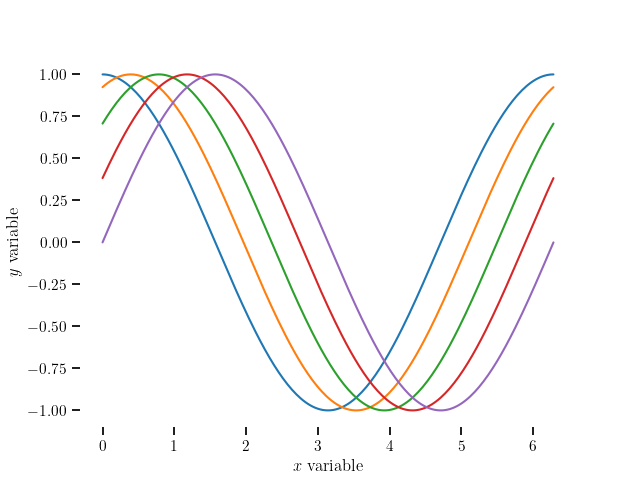
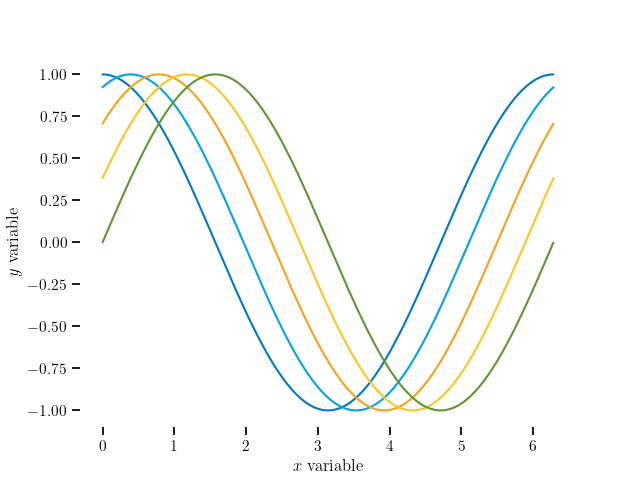
added NREL stylesheet

diff --git a/test.py b/test.py
@@ -25,14 +25,21 @@ def do(fname_save=None):
 url_stylesheet_cvf = "https://github.nrel.gov/raw/cfrontin/tools_cvf/main/tools_cvf/stylesheet_cvf.mplstyle"
 url_stylesheet_cvf_notex = "https://github.nrel.gov/raw/cfrontin/tools_cvf/main/tools_cvf/stylesheet_cvf_notex.mplstyle"
 url_stylesheet_seaborn = "https://github.nrel.gov/raw/cfrontin/tools_cvf/main/tools_cvf/stylesheet_seaborn.mplstyle"
+url_stylesheet_nrel = "tools_cvf/stylesheet_nrel.mplstyle"
 
-use_tex = False
+use_tex = True
 if use_tex:
     if True:
         # with plt.style.context(tools_cvf.get_stylesheets()):
         # with plt.style.context(['/Users/cfrontin/codes/tools_cvf/tools_cvf/stylesheet_seaborn.mplstyle',
         #                         '/Users/cfrontin/codes/tools_cvf/tools_cvf/stylesheet_cvf.mplstyle']):
         with plt.style.context([url_stylesheet_seaborn, url_stylesheet_cvf]):
+            do(fname_save="assets/plot_stylesheet.png")
+    if True:
+        # with plt.style.context(tools_cvf.get_stylesheets()):
+        # with plt.style.context(['/Users/cfrontin/codes/tools_cvf/tools_cvf/stylesheet_seaborn.mplstyle',
+        #                         '/Users/cfrontin/codes/tools_cvf/tools_cvf/stylesheet_cvf.mplstyle']):
+        with plt.style.context([url_stylesheet_seaborn, url_stylesheet_cvf, url_stylesheet_nrel]):
             do(fname_save="assets/plot_stylesheet.png")
     if True:
         # with plt.style.context(tools_cvf.get_stylesheets(dark= True)):
